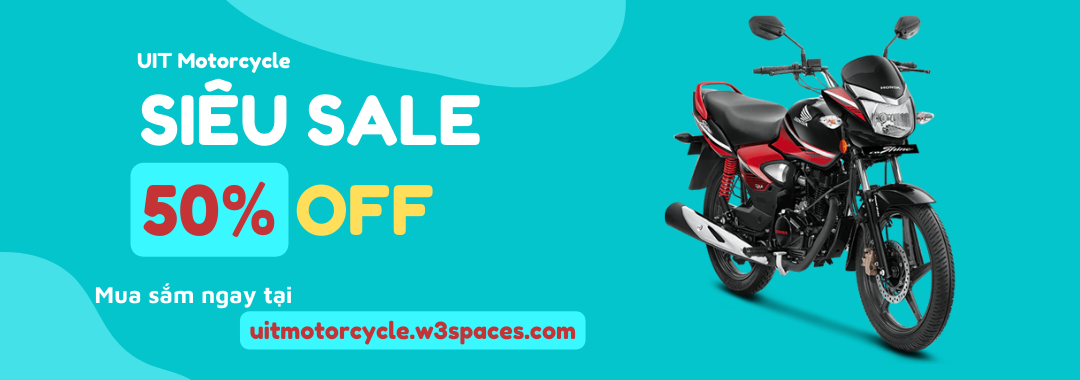
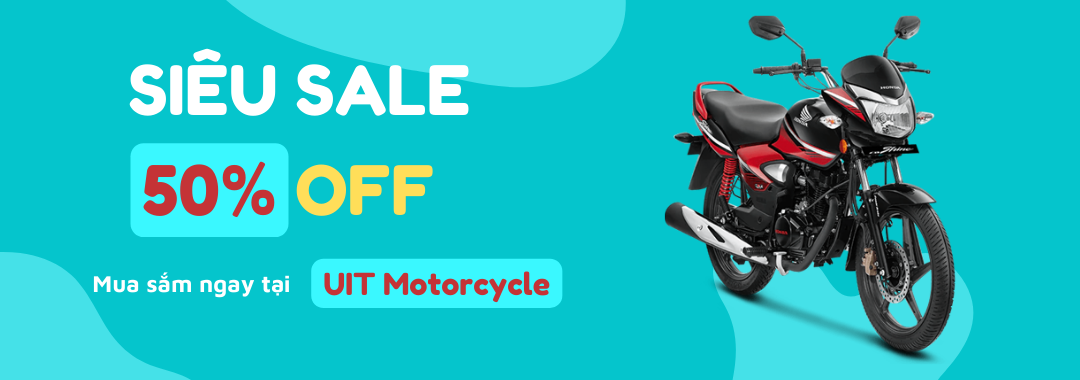
modify index.php

Changed region(s): [[0.0611, 0.1158, 0.55, 0.9263], [0.6417, 0.6658, 0.9167, 1.0]]

diff --git a/index.php b/index.php
@@ -151,7 +151,7 @@ include('./function/common_function.php');
                         <img src="./Asset/Picture/banner_1.png" class="d-block w-100" alt="...">
                     </div>
                     <div class="carousel-item">
-                        <img src="./Asset/Picture/banner_1.png" class="d-block w-100" alt="...">
+                        <img src="./Asset/Picture/banner_2.png" class="d-block w-100" alt="...">
                     </div>
                     <div class="carousel-item">
                         <img src="./Asset/Picture/banner_1.png" class="d-block w-100" alt="...">
